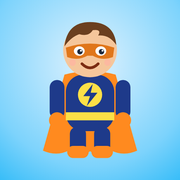
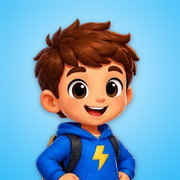
Icone do app com o Super Faisca novo (v13)

diff --git a/sw.js b/sw.js
@@ -1,6 +1,6 @@
 /* Service worker do Super Faísca: guarda o app no aparelho para funcionar sem internet.
    Ao publicar uma versão nova, aumente o número em VERSAO para o tablet baixar os arquivos novos. */
-const VERSAO = "super-faisca-v12";
+const VERSAO = "super-faisca-v13";
 const ARQUIVOS = [
   "./", "./index.html", "./style.css", "./app.js", "./curriculo.js", "./curriculo_extra.js", "./motor.js", "./conta.js", "./config.js", "./vozes.js",
   "./manifest.webmanifest", "./privacidade.html",

diff --git a/ferramentas/gerar_icones.py b/ferramentas/gerar_icones.py
@@ -1,0 +1,70 @@
+"""Gera os ícones do app (pasta icones/) a partir das imagens dos personagens.
+
+Uso (na pasta do projeto):  python ferramentas/gerar_icones.py
+Precisa do Pillow (pip install pillow). Rode de novo se as imagens dos personagens mudarem.
+"""
+from pathlib import Path
+
+from PIL import Image, ImageDraw, ImageFilter
+
+RAIZ = Path(__file__).resolve().parent.parent
+PERS = RAIZ / "personagens"
+SAIDA = RAIZ / "icones"
+GRANDE = 1024  # desenha grande e reduz no fim (fica mais nítido)
+
+
+def fundo(tam):
+    """Céu: azul claro no centro, mais forte nas bordas (cores do app)."""
+    centro, borda = (224, 242, 254), (56, 189, 248)
+    img = Image.new("RGB", (tam, tam), borda)
+    mascara = Image.new("L", (tam, tam), 0)
+    d = ImageDraw.Draw(mascara)
+    passos = 60
+    for i in range(passos):
+        r = tam * 0.75 * (1 - i / passos)
+        d.ellipse((tam / 2 - r, tam * 0.42 - r, tam / 2 + r, tam * 0.42 + r), fill=int(255 * i / passos))
+    mascara = mascara.filter(ImageFilter.GaussianBlur(tam / 30))
+    img.paste(Image.new("RGB", (tam, tam), centro), (0, 0), mascara)
+    return img
+
+
+def busto(nome, altura_corte):
+    """Recorta o personagem da cabeça até a cintura (sem o espaço vazio em volta)."""
+    im = Image.open(PERS / f"{nome}.webp").convert("RGBA")
+    x0, y0, x1, _ = im.getchannel("A").getbbox()
+    return im.crop((x0, y0, x1, y0 + altura_corte))
+
+
+def desenhar(tam, escala):
+    """Super Faísca da cabeça até a cintura, centralizado e cortado pela borda de baixo."""
+    img = fundo(GRANDE).convert("RGBA")
+    heroi = busto("faisca-basico", 300)
+    alvo = GRANDE * escala  # altura do personagem
+    heroi = heroi.resize((round(heroi.width * alvo / heroi.height), round(alvo)), Image.LANCZOS)
+    x, y = (GRANDE - heroi.width) // 2, GRANDE - heroi.height
+    # sombra suave atrás, para destacar do céu
+    sombra = Image.new("RGBA", (GRANDE, GRANDE), (0, 0, 0, 0))
+    a = heroi.getchannel("A").point(lambda v: v * 0.35)
+    sombra.paste(Image.new("RGBA", heroi.size, (30, 58, 138, 255)), (x, y + 10), a)
+    img.alpha_composite(sombra.filter(ImageFilter.GaussianBlur(GRANDE / 70)))
+    img.alpha_composite(heroi, (x, y))
+    return img.convert("RGB").resize((tam, tam), Image.LANCZOS)
+
+
+def main():
+    SAIDA.mkdir(exist_ok=True)
+    feitos = {
+        "icone-512.png": desenhar(512, 0.90),
+        "icone-192.png": desenhar(192, 0.90),
+        "apple-touch-icon.png": desenhar(180, 0.90),
+        # "maskable": o Android corta em círculo/gota; o rosto precisa ficar no miolo
+        "icone-maskable-512.png": desenhar(512, 0.74),
+        "icone-maskable-192.png": desenhar(192, 0.74),
+    }
+    for nome, im in feitos.items():
+        im.save(SAIDA / nome, optimize=True)
+        print(f"  {nome}: {im.size[0]}x{im.size[1]}, {(SAIDA / nome).stat().st_size // 1024} KB")
+
+
+if __name__ == "__main__":
+    main()
